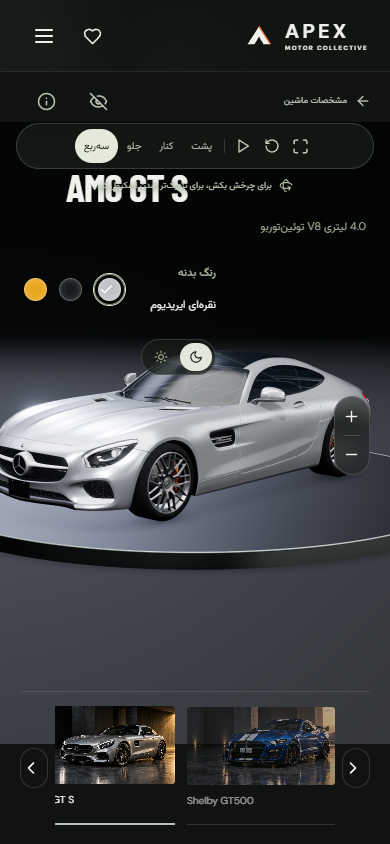
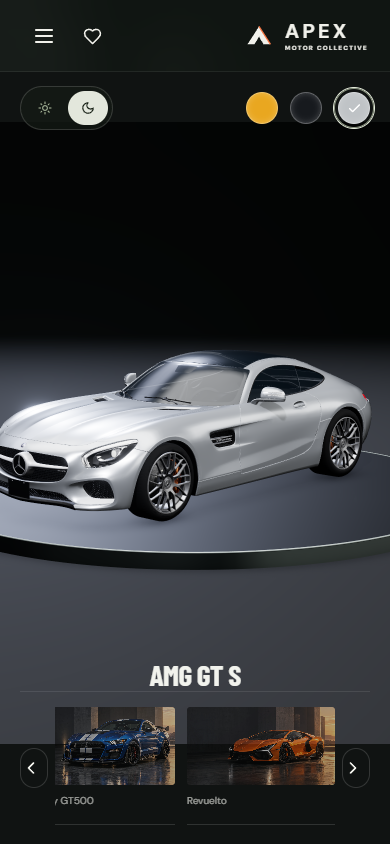
Keep mobile studio controls clear of the vehicle

diff --git a/src/glass.css b/src/glass.css
@@ -296,6 +296,62 @@ body {
 [data-presentation='true'] .toast {
   display: none;
 }
+
+/* Mobile studio: keep camera tools off the vehicle and dock its name by the rail. */
+@media (max-width: 760px) {
+  .turntable-studio .turntable-top,
+  .turntable-studio .turntable-interaction,
+  .turntable-studio .turntable-zoom,
+  .turntable-palette > .overline,
+  .turntable-palette > strong,
+  .turntable-title > .overline,
+  .turntable-title > p {
+    display: none;
+  }
+  .turntable-palette {
+    top: 14px;
+    left: 20px;
+    right: 20px;
+    width: auto;
+    display: flex;
+    align-items: center;
+    justify-content: space-between;
+    gap: 20px;
+  }
+  .turntable-palette .color-swatches {
+    display: flex;
+    gap: 12px;
+    margin: 0;
+  }
+  .turntable-palette .color-swatches > button {
+    width: 32px;
+    height: 32px;
+    flex: none;
+  }
+  .turntable-palette .turntable-light-controls {
+    margin: 0;
+    padding: 4px;
+    flex: none;
+  }
+  .turntable-light-controls > button {
+    min-width: 40px;
+    min-height: 34px;
+  }
+  .turntable-title {
+    top: auto;
+    bottom: 153px;
+    left: 20px;
+    right: 20px;
+    text-align: center;
+  }
+  .turntable-title h1 {
+    max-width: none;
+    margin: 0;
+    font-size: clamp(25px, 7.5vw, 34px);
+    line-height: 1.1;
+    text-align: center;
+  }
+}
 @media (max-width: 760px) {
   .card-visual {
     margin: 7px 7px 0;

diff --git a/README.md b/README.md
@@ -122,6 +122,8 @@
 | :---: | :---: | :---: | :---: |
 | [<img src="docs/screenshots/mobile-home.png" alt="هیروی APEX در گوشی" width="180" />](docs/screenshots/mobile-home.png) | [<img src="docs/screenshots/mobile-collection.png" alt="کارتهای مجموعه در گوشی" width="180" />](docs/screenshots/mobile-collection.png) | [<img src="docs/screenshots/mobile-studio.png" alt="استودیوی سهبعدی و کنترلهای آن در گوشی" width="180" />](docs/screenshots/mobile-studio.png) | [<img src="docs/screenshots/mobile-about.png" alt="صفحهٔ درباره در گوشی" width="180" />](docs/screenshots/mobile-about.png) |
 
+در استودیوی گوشی، فقط انتخاب روز/شب و سه رنگ بالای صحنه قرار میگیرند؛ ماشین با لمس میچرخد و نامش زیر صحنه، بالای نوار انتخاب ماشینها نمایش داده میشود. نوار زاویهها و متن راهنما در موبایل حذف شدهاند تا روی ماشین نیفتند.
+
 <a id="features"></a>
 ## امکانات اصلی
 
